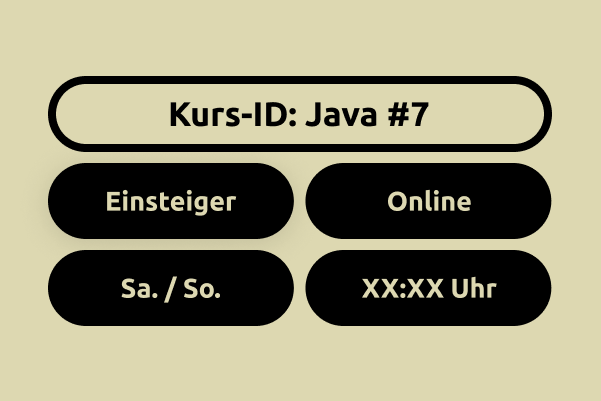
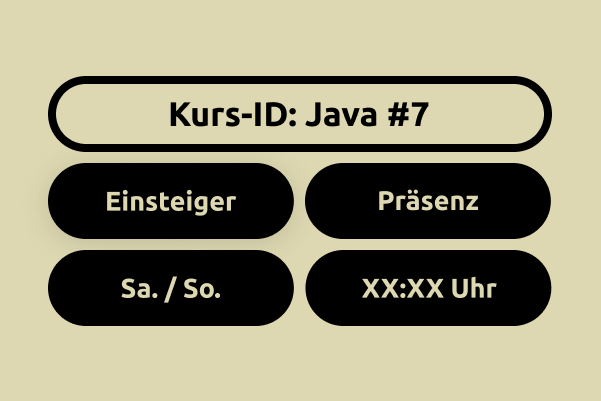
add form links to java oct24

Changed region(s): [[0.629, 0.4788, 0.8087, 0.5387]]

diff --git a/laufende_kurse/informatik_kurse/informatik_uni_level.html b/laufende_kurse/informatik_kurse/informatik_uni_level.html
@@ -257,12 +257,12 @@
                                 </figure>
 
                                 <h3 class="project-title">Programmieren mit Java [#7]
-                                    <span style="color: var(--orange-yellow-crayola)">(Anmeldung startet am 15.04.2024
+                                    <span style="color: var(--orange-yellow-crayola)">(Anmeldung startet am 03.11.2024
                                         🏁)
                                     </span>
                                 </h3>
 
-                                <p class="project-category">28.04.2024 - 21.07.2024</p>
+                                <p class="project-category">16.11.2024 - 08.02.2025</p>
 
                             </a>
                         </li>
@@ -281,12 +281,12 @@
                                 </figure>
 
                                 <h3 class="project-title">Programmieren mit Java [#8]
-                                    <span style="color: var(--orange-yellow-crayola)">(Anmeldung startet am 15.04.2024
+                                    <span style="color: var(--orange-yellow-crayola)">(Anmeldung startet am 03.11.2024
                                         🏁)
                                     </span>
                                 </h3>
 
-                                <p class="project-category">04.05.2024 - 27.07.2024</p>
+                                <p class="project-category">16.11.2024 - 08.02.2025</p>
 
                             </a>
                         </li>
@@ -304,12 +304,12 @@
                                 </figure>
 
                                 <h3 class="project-title">Programmieren mit Java [#9]
-                                    <span style="color: var(--orange-yellow-crayola)">(Anmeldung startet am 15.04.2024
+                                    <span style="color: var(--orange-yellow-crayola)">(Anmeldung startet am 03.11.2024
                                         🏁)
                                     </span>
                                 </h3>
 
-                                <p class="project-category">27.04.2024 - 19.07.2024</p>
+                                <p class="project-category">16.11.2024 - 08.02.2025</p>
 
                             </a>
                         </li>

diff --git a/laufende_kurse/informatik_kurse/uni/java8/java_8_anmeldung.html b/laufende_kurse/informatik_kurse/uni/java8/java_8_anmeldung.html
@@ -327,7 +327,7 @@
                                 <div class="info-content">
                                     <p class="externial_link">
                                         <a style="color:rgb(253, 73, 73);" target="_blank" rel="noopener noreferrer"
-                                            href="https://docs.google.com/forms/d/e/1FAIpQLSdqcpmg3MWhdcC2jWgMQt6hHR0Y52Fzr_Sho9Lhk1ykqgGo0A/viewform?usp=share_link">Link
+                                            href="https://docs.google.com/forms/d/e/1FAIpQLScVM5qa6WaQhsHsvlz1XIqNTgbw0_5eFhZjNEPsGjCrL5_JUg/viewform?usp=sf_link">Link
                                             zur Anmeldung
                                         </a>
                                     </p>
@@ -350,7 +350,7 @@
                                 <div class="info-content">
                                     <p class="externial_link">
                                         <a style="color:rgb(253, 73, 73);" target="_blank" rel="noopener noreferrer"
-                                            href="https://docs.google.com/forms/d/e/1FAIpQLSdMtrY4_Hl0GLR61pFpHTNCZRHlGA6d1zX2C3siLQYzMXlWLQ/viewform?usp=share_link">Link
+                                            href="https://docs.google.com/forms/d/e/1FAIpQLSfr1Ht-OJy8ftFYoahb0tjvIK1xotR_euB0D7I9atvNzcEynw/viewform?usp=sf_link">Link
                                             zur Warteliste
 
                                         </a>
@@ -374,8 +374,8 @@
                                 <div class="info-content">
                                     <p class="externial_link">
                                         <a style="color:rgb(253, 73, 73);" target="_blank" rel="noopener noreferrer"
-                                            href="https://calendar.google.com/calendar/ical/9b531d549ecb2bcc906a3f4d0ad77b3cc72f5cd2c052868b45d1a49d22b972a0%40group.calendar.google.com/public/basic.ics">Link
-                                            zum Kalendar
+                                            href="#">Link
+                                            kommt noch
                                         </a>
                                     </p>
                                 </div>

diff --git a/laufende_kurse/informatik_kurse/uni/java9/java_9_anmeldung.html b/laufende_kurse/informatik_kurse/uni/java9/java_9_anmeldung.html
@@ -327,7 +327,7 @@
                                 <div class="info-content">
                                     <p class="externial_link">
                                         <a style="color:rgb(253, 73, 73);" target="_blank" rel="noopener noreferrer"
-                                            href="https://docs.google.com/forms/d/e/1FAIpQLSfNt0CnkHOtmElHzBtNq318OpUox8YJLzpxLQG6-p7IgPSelA/viewform?usp=share_link">Link
+                                            href="https://docs.google.com/forms/d/e/1FAIpQLSeXdC1TkJmITO5bt10_v8GEpuKYaYztVKYLDKSwb6VR3MAgkg/viewform?usp=sf_link">Link
                                             zur Anmeldung
                                         </a>
                                     </p>
@@ -350,7 +350,7 @@
                                 <div class="info-content">
                                     <p class="externial_link">
                                         <a style="color:rgb(253, 73, 73);" target="_blank" rel="noopener noreferrer"
-                                            href="https://docs.google.com/forms/d/e/1FAIpQLSfoQnlT1eIfGM62blwxzFgPJ7v7gr_4VQ0J__EG5eC6ZNmOTA/viewform?usp=share_link">Link
+                                            href="https://docs.google.com/forms/d/e/1FAIpQLSeXE2JQqPdFwhIl1-hgyMG9y6JYndt38uj9qLoaZvJs57ofmA/viewform?usp=sf_link">Link
                                             zur Warteliste
 
                                         </a>
@@ -374,8 +374,8 @@
                                 <div class="info-content">
                                     <p class="externial_link">
                                         <a style="color:rgb(253, 73, 73);" target="_blank" rel="noopener noreferrer"
-                                            href="https://calendar.google.com/calendar/ical/2370bc4b9006c7f592036627ceba7857a0ddf12d6832c2cf3b1c818bf523dfe2%40group.calendar.google.com/public/basic.ics">Link
-                                            zum Kalendar
+                                            href="#">Link
+                                            kommt noch
                                         </a>
                                     </p>
                                 </div>

diff --git a/laufende_kurse/informatik_kurse/uni/java7/java_7_anmeldung.html b/laufende_kurse/informatik_kurse/uni/java7/java_7_anmeldung.html
@@ -327,7 +327,7 @@
                                 <div class="info-content">
                                     <p class="externial_link">
                                         <a style="color:rgb(253, 73, 73);" target="_blank" rel="noopener noreferrer"
-                                            href="https://docs.google.com/forms/d/e/1FAIpQLScp-z74wIXU2_H4Kip-qDCG3JmRkc6XPVEksrBCyoNIpfK5UA/viewform?usp=share_link">Link
+                                            href="https://docs.google.com/forms/d/e/1FAIpQLSfwvPYhX0GIr0jB0P5C1yW_TelcG-ptZ5kkmojq1AtP_1uS3w/viewform?usp=sf_link">Link
                                             zur Anmeldung
                                         </a>
                                     </p>
@@ -350,7 +350,7 @@
                                 <div class="info-content">
                                     <p class="externial_link">
                                         <a style="color:rgb(253, 73, 73);" target="_blank" rel="noopener noreferrer"
-                                            href="https://docs.google.com/forms/d/e/1FAIpQLSeYh_TMmV1ZwNPuCtNbNqMFbtI29e8CkVrqvjQP_RXx9W_unA/viewform?usp=share_link">Link
+                                            href="https://docs.google.com/forms/d/e/1FAIpQLScaB-xynwXqOCnCDvRy0gMWUixiSERTNcCoIs7QCeqE6he9rg/viewform?usp=sf_link">Link
                                             zur Warteliste
 
                                         </a>
@@ -374,8 +374,7 @@
                                 <div class="info-content">
                                     <p class="externial_link">
                                         <a style="color:rgb(253, 73, 73);" target="_blank" rel="noopener noreferrer"
-                                            href="https://calendar.google.com/calendar/ical/16b48b9413e1e6bcf59a6150ca5b3c5a2f90e833ec59e49b7667bfeb74292f37%40group.calendar.google.com/public/basic.ics">Link
-                                            zum Kalendar
+                                            href="#">Link kommt noch
                                         </a>
                                     </p>
                                 </div>

diff --git a/laufende_kurse/informatik_kurse/uni/java7/java_7_fazit.html b/laufende_kurse/informatik_kurse/uni/java7/java_7_fazit.html
@@ -310,7 +310,7 @@
                                     <h4 class="h4 service-item-title">Kursformat</h4>
 
                                     <p class="service-item-text">
-                                        Online (Über ZOOM)
+                                        Präsenz (Berlin)
                                     </p>
                                 </div>
 
@@ -391,7 +391,7 @@
                                     <h4 class="h4 service-item-title">Startdatum</h4>
 
                                     <p class="service-item-text">
-                                        28.04.2024
+                                        16.11.2024 / 17.11.2024
                                     </p>
                                 </div>
 
@@ -407,7 +407,7 @@
                                     <h4 class="h4 service-item-title">Kurszeitplan</h4>
 
                                     <p class="service-item-text">
-                                        Am Sonntag um 09:30 Uhr
+                                        Sammstags / Sonntags (morgens)
                                     </p>
                                 </div>
 
@@ -423,7 +423,7 @@
                                     <h4 class="h4 service-item-title">Sitzungsdauer</h4>
 
                                     <p class="service-item-text">
-                                        2 Stunden + 1/2 Stunde Wiederholung  fuer Abwesenden
+                                        2 Stunden + 1/2 Stunde Wiederholung fuer Abwesenden
                                     </p>
                                 </div>
 
@@ -459,7 +459,7 @@
 
                                     <p class="service-item-text">
                                         - Standardgebühr: 80 &#8364 / Monat<br>
-                                        - Sonderangebot: 15 &#8364 monatlicher Gutschein für jede weitere Person, die du
+                                        - Sonderangebot: 20 &#8364 monatlicher Rabatt für jede weitere Person, die du
                                         zum Kurs einlädst
                                     </p>
                                 </div>

diff --git a/laufende_kurse/informatik_kurse/uni/java8/java_8_fazit.html b/laufende_kurse/informatik_kurse/uni/java8/java_8_fazit.html
@@ -391,7 +391,7 @@
                                     <h4 class="h4 service-item-title">Startdatum</h4>
 
                                     <p class="service-item-text">
-                                        04.05.2024
+                                        16.11.2024 / 17.11.2024
                                     </p>
                                 </div>
 
@@ -407,7 +407,7 @@
                                     <h4 class="h4 service-item-title">Kurszeitplan</h4>
 
                                     <p class="service-item-text">
-                                        Am Samstag um 10:00 Uhr
+                                        Sammstags / Sonntags (morgens)
                                     </p>
                                 </div>
 
@@ -459,7 +459,7 @@
 
                                     <p class="service-item-text">
                                         - Standardgebühr: 80 &#8364 / Monat<br>
-                                        - Sonderangebot: 15 &#8364 monatlicher Gutschein für jede weitere Person, die du
+                                        - Sonderangebot: 20 &#8364 monatlicher Rabatt für jede weitere Person, die du
                                         zum Kurs einlädst
                                     </p>
                                 </div>

diff --git a/laufende_kurse/informatik_kurse/uni/java9/java_9_fazit.html b/laufende_kurse/informatik_kurse/uni/java9/java_9_fazit.html
@@ -391,7 +391,7 @@
                                     <h4 class="h4 service-item-title">Startdatum</h4>
 
                                     <p class="service-item-text">
-                                        27.04.2024
+                                        16.11.2024 / 17.11.2024
                                     </p>
                                 </div>
 
@@ -407,7 +407,7 @@
                                     <h4 class="h4 service-item-title">Kurszeitplan</h4>
 
                                     <p class="service-item-text">
-                                        Am Freitag um 15:00 Uhr
+                                        Sammstags / Sonntags (morgens)
                                     </p>
                                 </div>
 
@@ -459,7 +459,7 @@
 
                                     <p class="service-item-text">
                                         - Standardgebühr: 80 &#8364 / Monat<br>
-                                        - Sonderangebot: 15 &#8364 monatlicher Gutschein für jede weitere Person, die du
+                                        - Sonderangebot: 20 &#8364 monatlicher Rabatt für jede weitere Person, die du
                                         zum Kurs einlädst
                                     </p>
                                 </div>

diff --git a/laufende_kurse/informatik_kurse/uni/java7/java_7_merkmale.html b/laufende_kurse/informatik_kurse/uni/java7/java_7_merkmale.html
@@ -380,7 +380,7 @@
 
                             </li>
 
-                            <!-- <li class="timeline-item">
+                            <li class="timeline-item">
 
                                 <h4 class="h4 timeline-item-title">Snacks für alle 🍬🍭🍦</h4>
 
@@ -389,8 +389,7 @@
                                     musst, ist deinen Laptop und ein
                                     breites Lächeln!
                                 </p>
-
-                            </li> -->
+                            </li>
 
                         </ol>
 

diff --git a/laufende_kurse/informatik_kurse/uni/java9/java_9_merkmale.html b/laufende_kurse/informatik_kurse/uni/java9/java_9_merkmale.html
@@ -380,7 +380,7 @@
 
                             </li> -->
 
-                            <li class="timeline-item">
+                            <!-- <li class="timeline-item">
 
                                 <h4 class="h4 timeline-item-title">Snacks für alle 🍬🍭🍦</h4>
 
@@ -390,7 +390,7 @@
                                     breites Lächeln!
                                 </p>
 
-                            </li>
+                            </li> -->
 
                         </ol>
 
